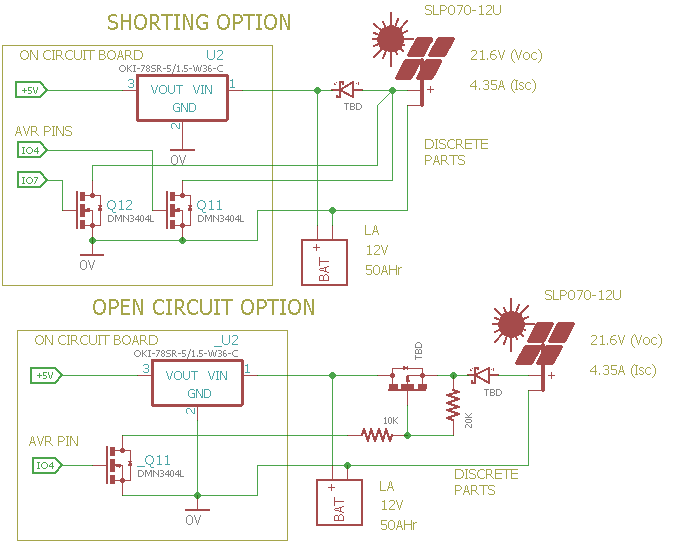
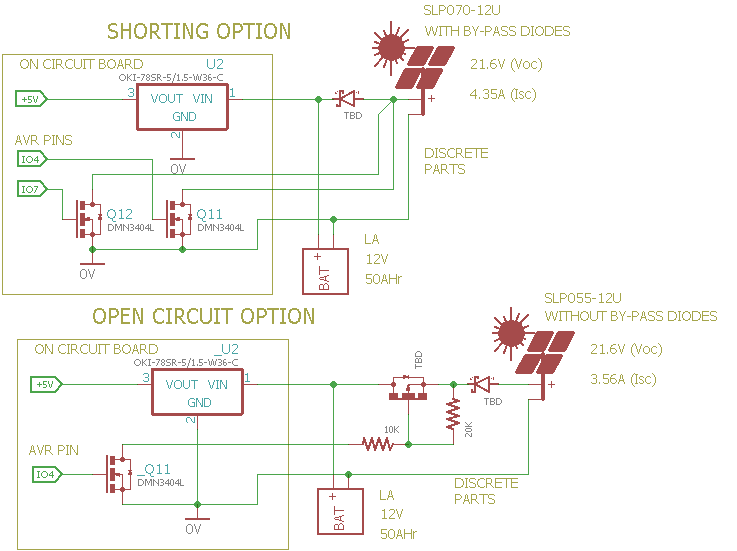
Hardware: issue with zener breakdown

diff --git a/Hardware/README.md b/Hardware/README.md
@@ -124,18 +124,18 @@ The SMD reflow is done in a Black & Decker Model NO. TO1303SB which has the heat
 
 # How To Use
 
-## Stopping charge from solar panel
+## Prevent overcharging a battery
 
 A few approaches to prevent overcharging a battery with a solar panel.
 
 ![SolarPwrOptions](./Documents/SolarPwrOptions.png "RPUlux Solar Power Options")
 
-Using IO4 and IO7 to control onboard N-CH MOSFET it is possible to short the solar panel. The blocking diode needs to prevent the battery from supplying current to the short (and block night or dark discharge current).
+Using IO4 and IO7 to control onboard N-CH MOSFET it is possible to short the solar panel. The blocking diode needs to prevent the battery from supplying current to the short and the panel must be equipped with by-pass diodes. Note that small panels often lack by-pass diodes and shorting a panel without bypass diodes will result in a Zener breakdown failure in the panel.
 
-It is also possible to use IO4 to open circuit the solar panel. This requires more off-board parts but is really a question of comfort level. Most people seem to have a bad reaction to seeing the idea of shorting the solar panel, so I think it is important to give other options.
-
-Another problem is not getting enough sun, which needs to be handled by software by not running the lights at night or the Raspberry Pi. 
+It is also possible to use IO4 to open circuit the solar panel. This requires more off-board parts but shorting is not an option when by-pass diodes are not installed.
 
 An even better option for charge control is to use something like [SunSaver-6L] which will provide a lot of protection. This removes the need to write some of the control software, which if done wrong may damage the battery or hardware on the board. 
 
 [SunSaver-6L]: https://www.solar-electric.com/ss-6l.html
+
+Another problem is not getting enough sun, which is handled by user software (e.g. not running the lights at night and/or the Raspberry Pi). 

diff --git a/Hardware/Schooling/readme.md b/Hardware/Schooling/readme.md
@@ -4,9 +4,11 @@ Some lessons I learned doing RPUlux.
 
 # Table Of Contents:
 
-1. ^0 TBD
+1. ^0 Solar Panel Zener brakedown failure
 
 
-## ^0 TBD
+## ^0  Solar Panel Zener brakedown failure
 
-Schooling is to be determined
+Shorting a solar panel without by-pass diodes will cause more than a 10V reverse voltage on a partly shaded cell. That cell will then experience Zener breakdown failure.
+
+![Zener](./SolarReverseBreakdownIssue.png "Zener Brakedown")
